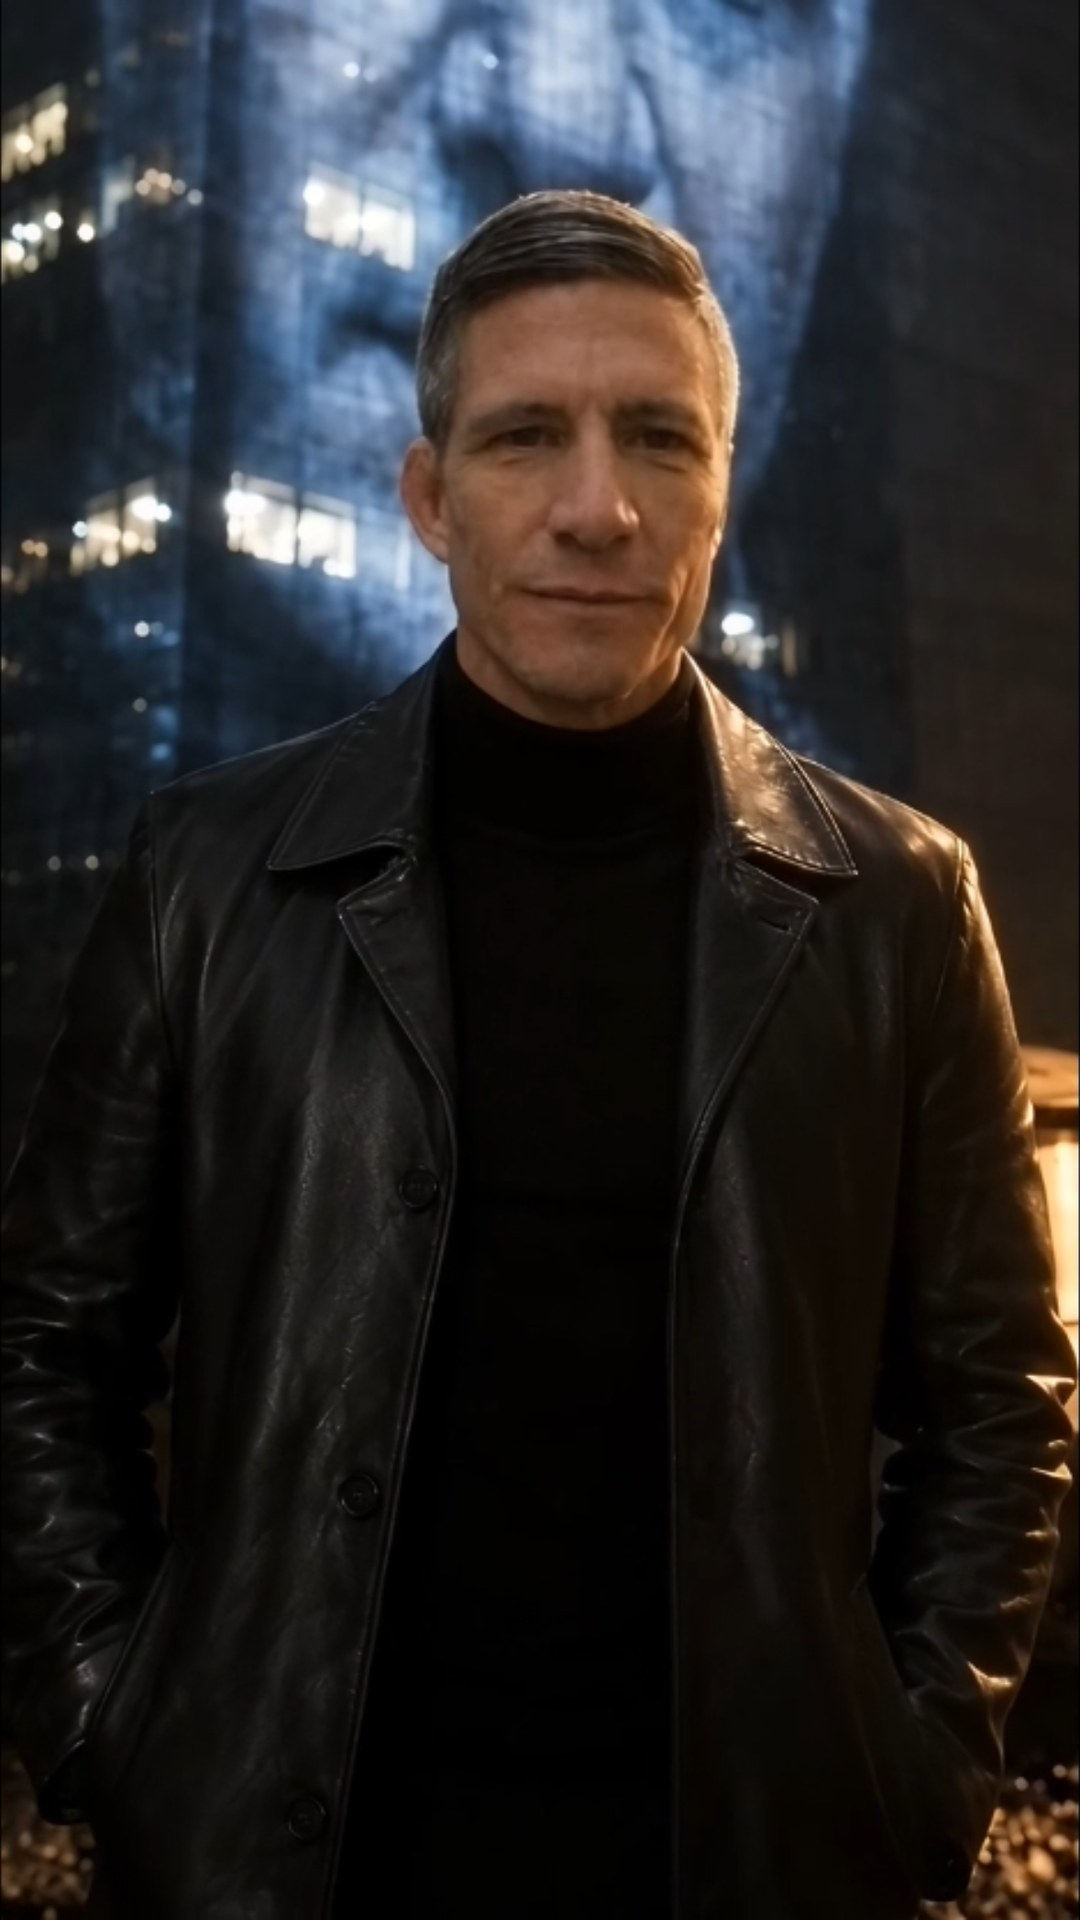
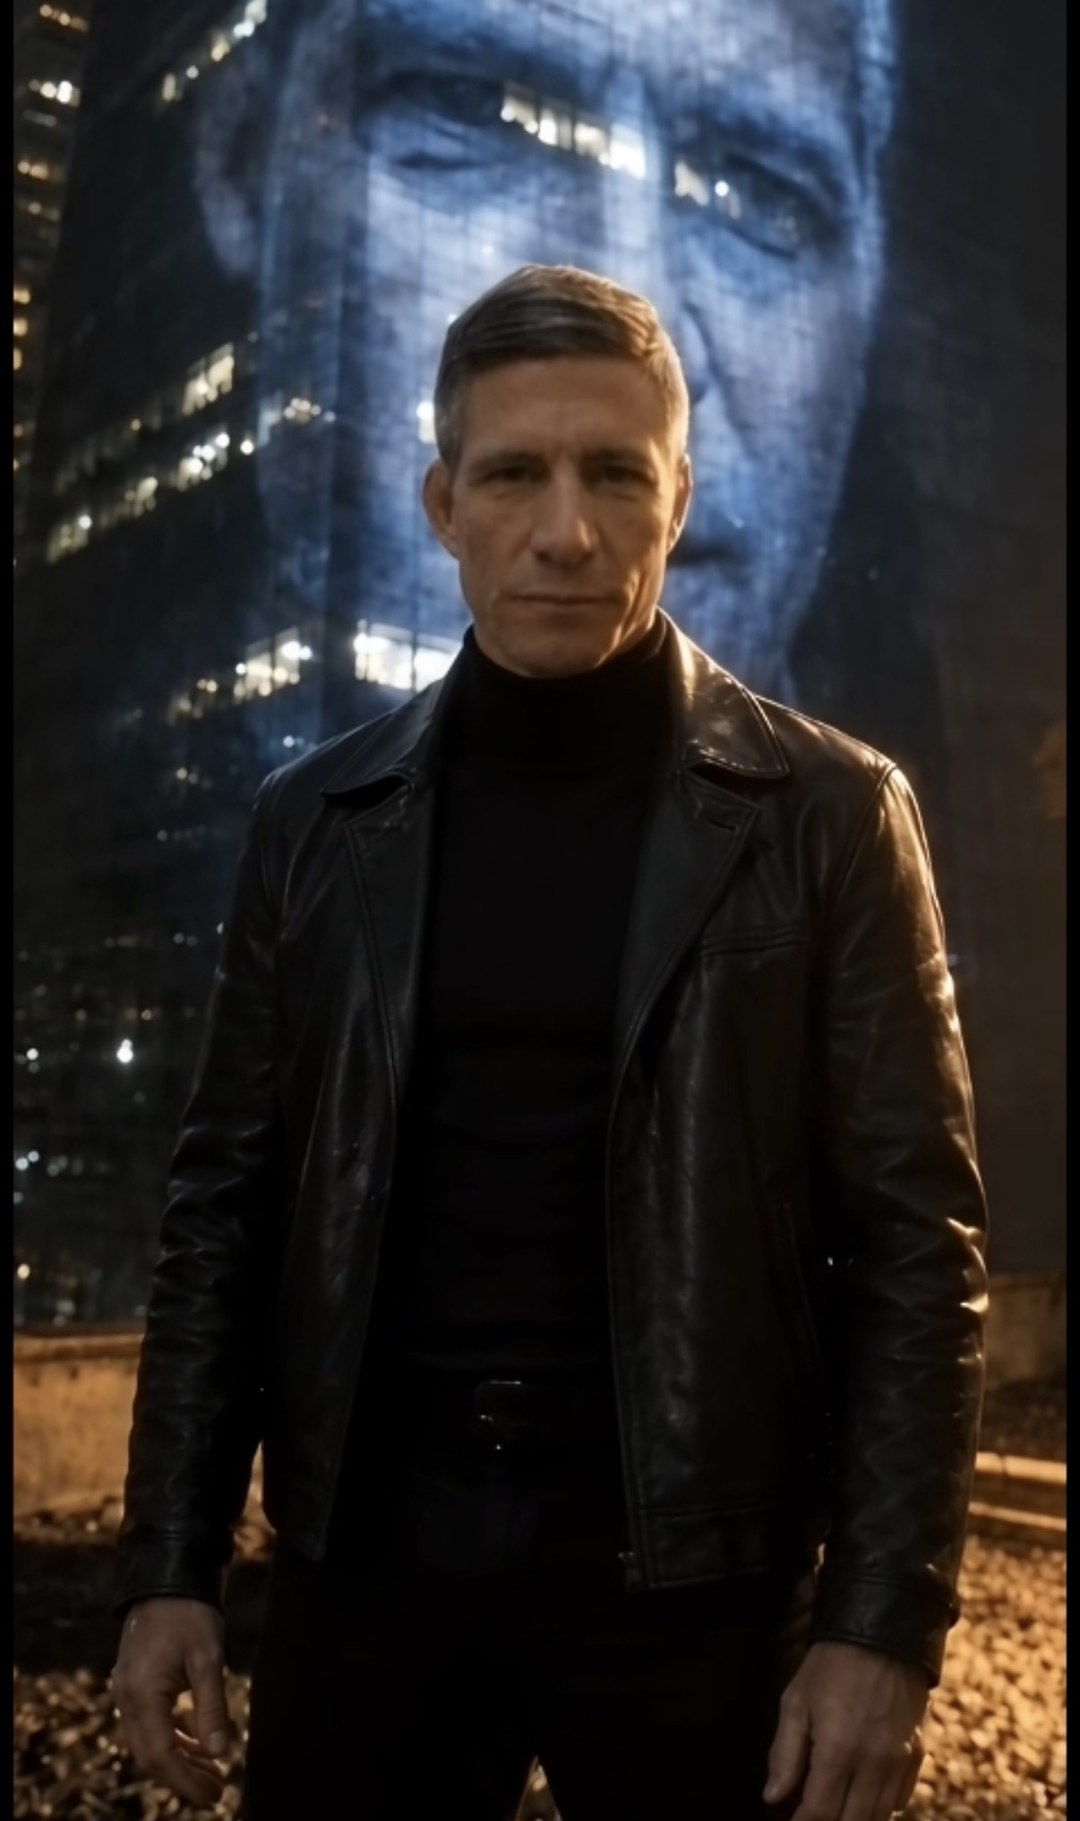
OG Certified playlist: Skyline cover
Claude-Session: https://claude.ai/code/session_01HXyZ2HJdahnVsyg7bdpPRG

diff --git a/og-certified-19-b7e4c1/index.html b/og-certified-19-b7e4c1/index.html
@@ -15,13 +15,13 @@
 <meta property="og:title" content="OG Certified · The Complete Series">
 <meta property="og:description" content="OG Bobby · OG Made ’99 · Season 1, Season 2 and The Finale · 19 episodes">
 <meta property="og:url" content="https://ogbobbybrooklyn.com/og-certified-19-b7e4c1/">
-<meta property="og:image" content="https://ogbobbybrooklyn.com/og-certified-19-b7e4c1/share.jpg?v=3">
+<meta property="og:image" content="https://ogbobbybrooklyn.com/og-certified-19-b7e4c1/share.jpg?v=4">
 <meta property="og:image:type" content="image/jpeg">
 <meta property="og:image:width" content="1200">
 <meta property="og:image:height" content="630">
 <meta name="twitter:card" content="summary_large_image">
 <meta name="twitter:title" content="OG Certified · The Complete Series">
-<meta name="twitter:image" content="https://ogbobbybrooklyn.com/og-certified-19-b7e4c1/share.jpg?v=3">
+<meta name="twitter:image" content="https://ogbobbybrooklyn.com/og-certified-19-b7e4c1/share.jpg?v=4">
 <link rel="icon" href="icon-v2-512.png">
 <link rel="apple-touch-icon" sizes="180x180" href="icon-v2.png">
 <link rel="preconnect" href="https://fonts.googleapis.com">
@@ -57,7 +57,7 @@ body { font-family: var(--body); font-size: 16px; -webkit-tap-highlight-color: t
 .cover-txt .open svg { width: 18px; height: 18px; fill: var(--gold); }
 
 /* Songs view */
-#bgArt { position: fixed; inset: 0; z-index: 0; background: #0a0d0b url("art.jpg?v=3") 50% 30% / cover no-repeat; filter: blur(18px) brightness(.35); transform: scale(1.1); }
+#bgArt { position: fixed; inset: 0; z-index: 0; background: #0a0d0b url("art.jpg?v=4") 50% 30% / cover no-repeat; filter: blur(18px) brightness(.35); transform: scale(1.1); }
 .wrap { position: relative; z-index: 1; max-width: 540px; margin: 0 auto; padding: 0 16px 48px; display: grid; gap: 16px; }
 .top { display: flex; align-items: center; justify-content: space-between; gap: 12px; }
 .top .back { flex: none; width: 44px; height: 44px; border-radius: 50%; border: 1px solid var(--line); background: rgba(0,0,0,.5); display: grid; place-items: center; cursor: pointer; }
@@ -125,19 +125,27 @@ footer { color: var(--soft); font-size: .8rem; text-align: center; }
 .hdr .top .mid .omh .omh-sig img { width: 6.2em; max-width: none; }
 .hdr .album { margin-top: 8px; padding-top: 8px; }
 .hdr .album .series { margin-top: 0; }
+
+/* Skyline cover: full photo, OG BOBBY wordmark top-left, red OG CERTIFIED bar along the bottom */
+#cover::after { background: linear-gradient(to bottom, rgba(0,0,0,.35) 0%, rgba(0,0,0,0) 22%, rgba(0,0,0,0) 60%, rgba(0,0,0,.75) 82%, #000 100%) !important; }
+#cover img.art { object-position: 50% 20%; }
+.sky-wm { position: absolute; z-index: 1; top: calc(max(14px, env(safe-area-inset-top)) + 16px); left: 20px; width: min(44%, 220px); height: auto; filter: drop-shadow(3px 3px 0 #000); }
+.cover-txt.sky { padding-bottom: calc(max(20px, env(safe-area-inset-bottom)) + 118px); }
+.sky-bar { position: absolute; z-index: 1; left: 0; right: 0; bottom: 0; padding: 18px 12px calc(max(16px, env(safe-area-inset-bottom)) + 4px); background: #d62828; display: grid; justify-items: center; gap: 8px; box-shadow: 0 -8px 24px rgba(0,0,0,.6); }
+.sky-bar .t { font: 400 clamp(2.6rem, 13vw, 3.6rem)/1 "Anton", Impact, sans-serif; letter-spacing: .04em; color: #fff; text-shadow: 2px 2px 0 #000; }
+.sky-bar .s { font: 700 .74rem/1.2 "Sedgwick Nine", "Barlow", sans-serif; letter-spacing: .24em; text-transform: uppercase; color: #fff; }
 </style>
 <script data-goatcounter="https://ogbobbybrooklyn.goatcounter.com/count" async src="//gc.zgo.at/count.js"></script>
 <meta name="copyright" content="© 2026 OG Bobby · OG FAN 99. All rights reserved.">
 </head>
 <body>
 <div id="cover" role="button" tabindex="0" aria-label="Open OG MADE ’99">
-  <img class="art" src="art.jpg?v=3" alt="OG Bobby at night in a black leather coat, city lights behind him">
-  <div class="cover-omh"><div class="omh " role="img" aria-label="OG Made ’99, signed OG Bobby"><div class="omh-row"><span class="omh-word">OG MADE</span><img class="omh-99" src="../brand/og-made-99.svg" alt=""></div><div class="omh-sig">— <img src="../brand/og-bobby-wordmark-top.png" alt=""></div></div></div>
-  <div class="cover-txt">
-    <span class="name big">Certified</span>
-    <span class="rel">The Complete Series · 19 Episodes</span>
+  <img class="art" src="art.jpg?v=4" alt="OG Bobby in a black leather jacket at night, city skyline behind him">
+  <img class="sky-wm" src="../brand/og-bobby-wordmark.png" alt="OG BOBBY">
+  <div class="cover-txt sky">
     <span class="open"><svg viewBox="0 0 24 24"><path d="M8 5v14l11-7z"/></svg>Open</span>
   </div>
+  <div class="sky-bar"><span class="t">OG CERTIFIED</span><span class="s">The Complete Series · 19 Episodes</span></div>
 </div>
 <div id="bgArt" aria-hidden="true"></div>
 <div class="wrap">

diff --git a/cert-covers-5d82a7/shot.html b/cert-covers-5d82a7/shot.html
@@ -1,0 +1,20 @@
+<!doctype html><html><head><meta charset="utf-8"><meta name="robots" content="noindex">
+<link rel="stylesheet" href="https://fonts.googleapis.com/css2?family=Anton&family=Barlow:wght@600;700&display=swap">
+<style>
+@font-face { font-family: "Sedgwick Nine"; src: url("../brand/sedgwick-nine.woff") format("woff"); unicode-range: U+0039; }
+html,body{margin:0;background:#000;overflow:hidden}
+.box{position:fixed;left:0;top:0;overflow:hidden;background:#000}
+.box img.bg{position:absolute;inset:0;width:100%;height:100%;object-fit:cover;object-position:50% 30%}
+.shade{position:absolute;inset:0;background:linear-gradient(to bottom,rgba(0,0,0,.35),rgba(0,0,0,0) 25%,rgba(0,0,0,0) 62%,rgba(0,0,0,.85))}
+.wm{position:absolute;height:auto;filter:drop-shadow(3px 3px 0 #000)}
+.bar{position:absolute;left:0;right:0;bottom:0;background:#d62828;display:flex;flex-direction:column;align-items:center;justify-content:center;box-shadow:0 -8px 24px rgba(0,0,0,.6)}
+.bar .t{font:400 1em/1 Anton,Impact,sans-serif;letter-spacing:.04em;color:#fff;text-shadow:.03em .03em 0 #000}
+.bar .s{font:700 .22em/1.2 "Sedgwick Nine",Barlow,sans-serif;letter-spacing:.26em;text-transform:uppercase;color:#fff;margin-top:.12em}
+/* square: 880 */
+.sq{width:880px;height:880px}.sq .wm{top:44px;left:44px;width:300px}.sq .bar{height:194px;font-size:106px}
+/* share: 1200x630 at 0.7 = 840x441 */
+.sh{width:840px;height:441px}.sh img.bg{object-position:50% 22%}.sh .wm{top:26px;left:30px;width:190px}.sh .bar{height:110px;font-size:62px}
+</style></head><body>
+<div class="box" id="b"><img class="bg" src="b.jpg"><div class="shade"></div><img class="wm" src="../brand/og-bobby-wordmark.png"><div class="bar"><div class="t">OG CERTIFIED</div><div class="s">The Complete Series · 19 Episodes</div></div></div>
+<script>document.getElementById("b").className="box "+(location.hash==="#share"?"sh":"sq");</script>
+</body></html>
